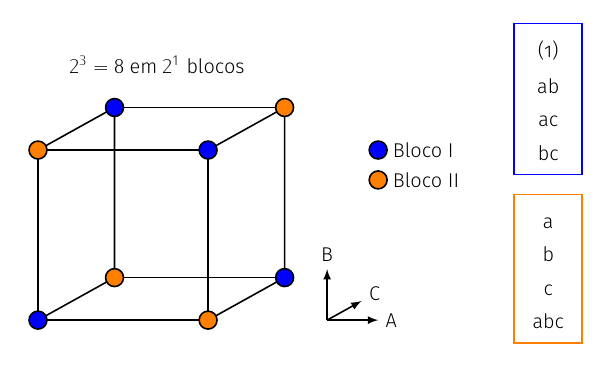
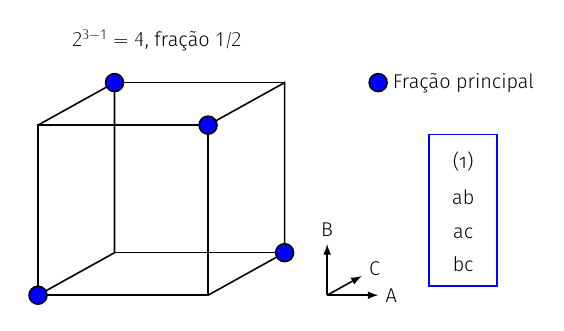
Updates picture.

diff --git a/README.md b/README.md
@@ -3754,19 +3754,23 @@ ift = -2.5cm]
   \begin{scope}[]
     \cube{};
     \foreach \i in {0, 3, 5, 6}{ \draw[fill = blue] (v\i) circle (1.5pt); }
-    \foreach \i in {1, 2, 4, 7}{ \draw[fill = orange] (v\i) circle (1.5pt); }
-    \node at (0.25, 1.25, 1) {$2^3 = 8$ em $2^1$ blocos};
+    \node at (0.25, 1.25, 1) {$2^{3 - 1} = 4$, fra{\c c}{\~a}o $1/2$};
   \end{scope}
 
-  \begin{scope}[xshift = 2cm, yshift = 1cm]
+  \begin{scope}[xshift = 2cm, yshift = 1.25cm]
     \coordinate (b1) at (0, 0);
-    \coordinate (b2) at (0, -0.5em);
-    \draw[fill = blue] (b1) circle (1.5pt) node[right = 0.7ex] {Bloco I};
-    \draw[fill = orange] (b2) circle (1.5pt) node[right = 0.7ex] {Bloco II};
+    \draw[fill = blue] (b1) circle (1.5pt) node[right = 0.7ex] {Fra{\c c}{\~a}o principal};
   \end{scope}
 
-  \begin{scope}[xshift = 3cm, yshift= 1.3cm]
+  \begin{scope}[xshift = 2.5cm, yshift= 0.5cm]
     \matrix (B1) at (0, 0) [mtx] {
+      (1) \\ ab \\ ac \\ bc \\
+    };
+    \node[draw, color = blue, fit = (B1-1-1)(B1-4-1)] {};
+  \end{scope}
+
+\end{tikzpicture}%
+(B1) at (0, 0) [mtx] {
       (1) \\ ab \\ ac \\ bc \\
     };
     \matrix (B2) [mtx, below = 1em of B1] {
